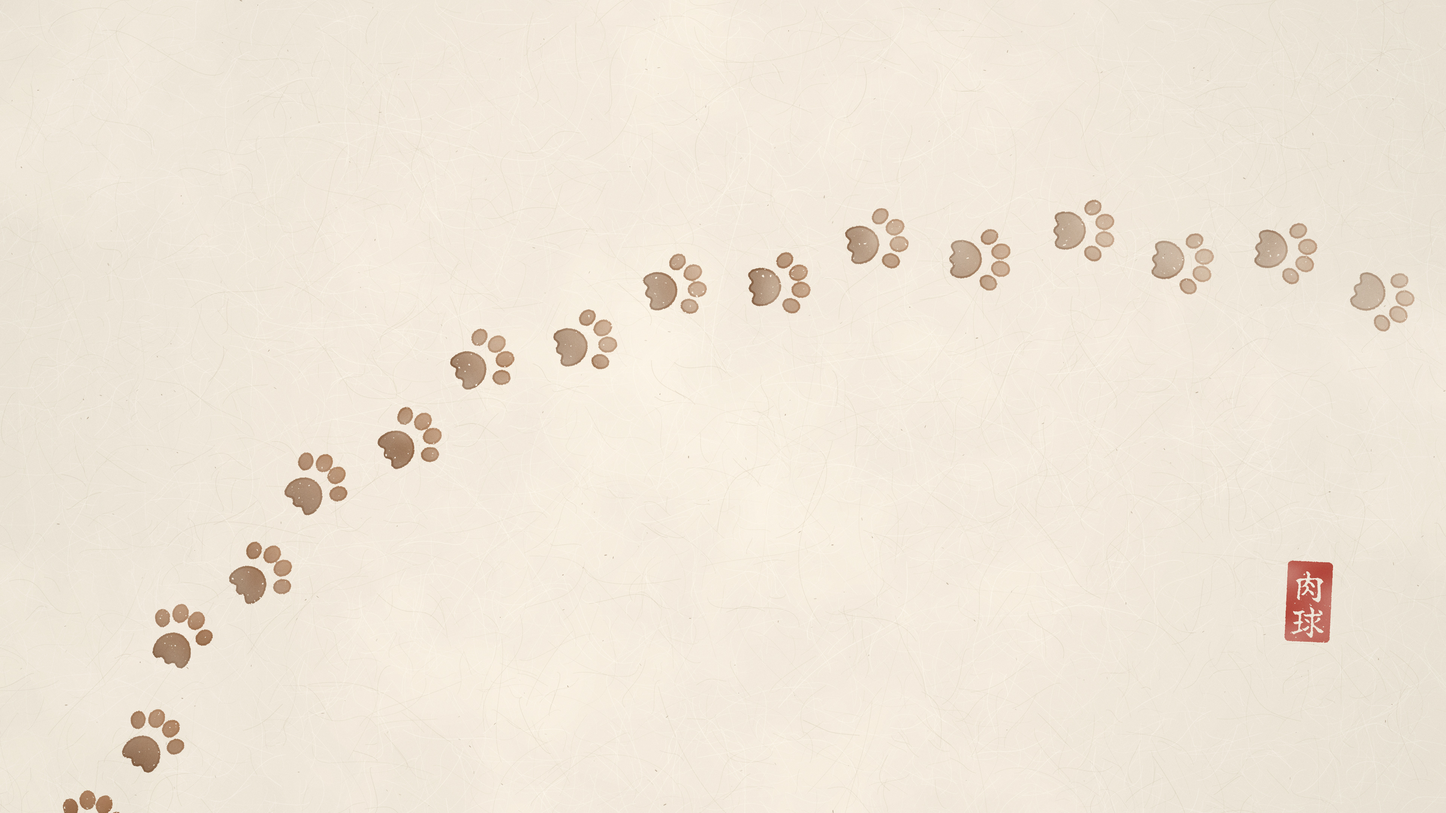
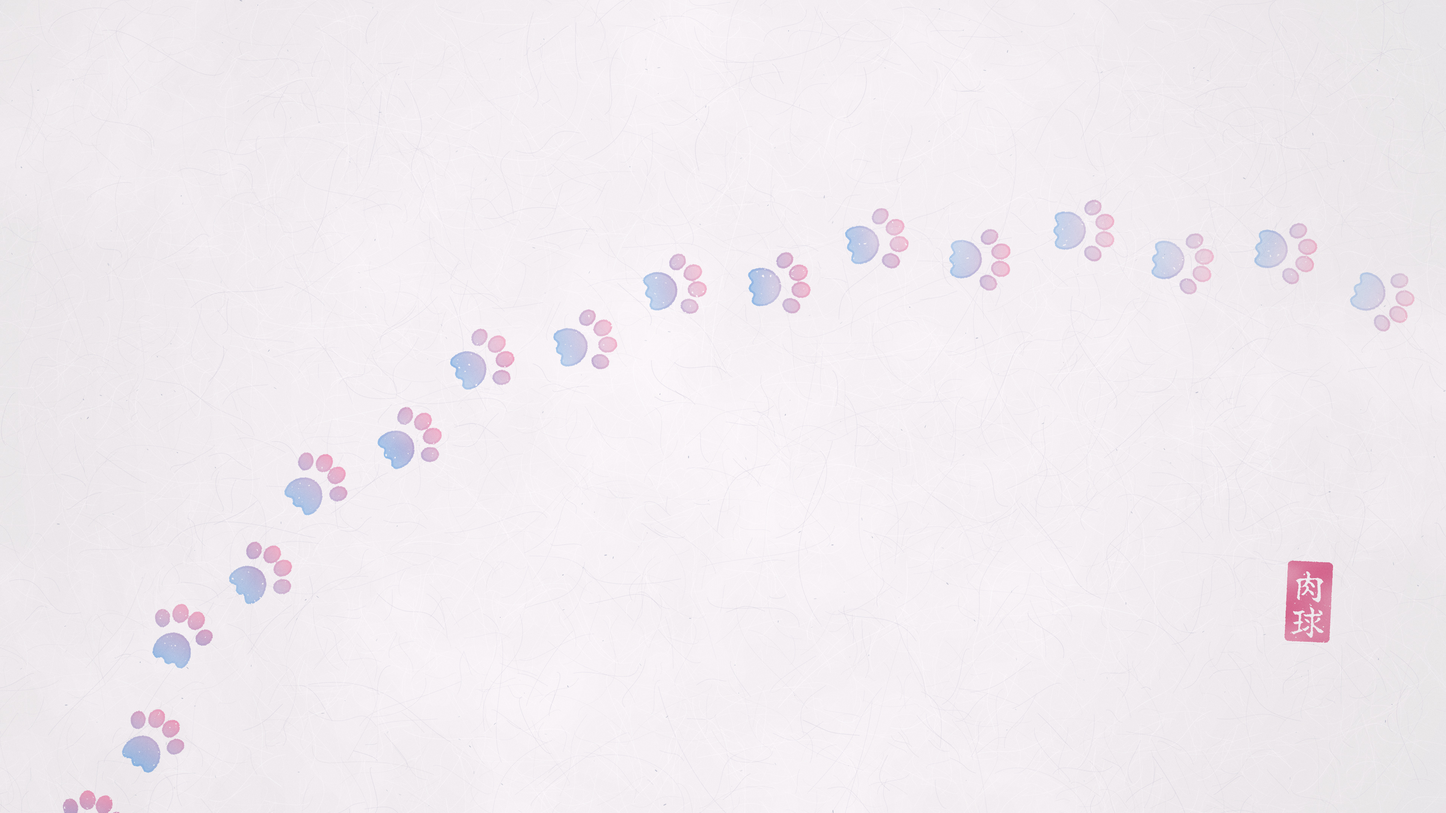
Draw washi's paper in sakura, its paw prints pink to sky blue and a rose seal

diff --git a/rices/washi/wallpaper/generate.py b/rices/washi/wallpaper/generate.py
@@ -21,13 +21,13 @@ from PIL import Image, ImageChops, ImageDraw, ImageFilter, ImageFont
 
 VARIANTS = {
     "washi": {
-        "paper": (243, 235, 221),
-        "mottle": 9,                      # how much the paper's brightness wanders, of 255
-        "fibre_light": (255, 251, 242), "fibre_dark": (196, 178, 152),
-        "fleck": (122, 92, 64), "fibre_strength": 1.0,
-        "ink": [(168, 118, 80), (115, 74, 44)],    # the logo's beans, toes to heel
-        "seal": (176, 58, 46),
-        "text": (43, 34, 28),
+        "paper": (244, 240, 243),
+        "mottle": 7,                      # how much the paper's brightness wanders, of 255
+        "fibre_light": (255, 253, 255), "fibre_dark": (186, 180, 206),
+        "fleck": (120, 128, 162), "fibre_strength": 1.0,
+        "ink": [(238, 150, 183), (126, 178, 230)],  # sakura toes, a sky-blue heel
+        "seal": (214, 92, 135),
+        "text": (54, 60, 88),
         "glow": None,
         "vignette": 0.05,
         "grain": 9,
